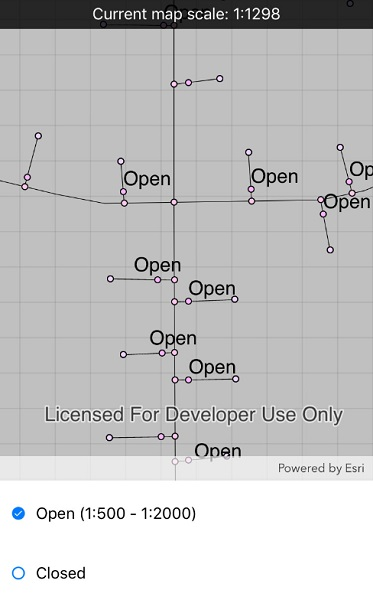
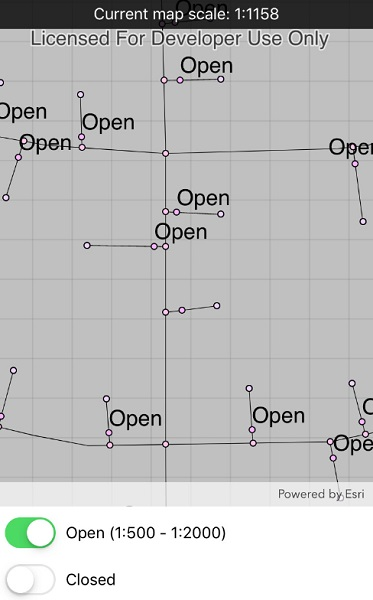
Fixed forms issue with checkbox

diff --git a/src/Forms/Shared/Samples/Layers/ControlAnnotationSublayerVisibility/ControlAnnotationSublayerVisibility.xaml b/src/Forms/Shared/Samples/Layers/ControlAnnotationSublayerVisibility/ControlAnnotationSublayerVisibility.xaml
@@ -31,14 +31,14 @@
                 <ColumnDefinition Width="auto" />
                 <ColumnDefinition Width="*" />
             </Grid.ColumnDefinitions>
-            <CheckBox
-                x:Name="OpenCheckBox"
+            <Switch
+                x:Name="OpenSwitch"
                 Grid.Column="0"
                 Margin="5"
-                CheckedChanged="OpenCheckBoxChanged"
-                IsChecked="True"
                 IsEnabled="False"
-                WidthRequest="20" />
+                IsToggled="True"
+                Toggled="OpenSwitchChanged"
+                WidthRequest="50" />
             <Label
                 x:Name="OpenLabel"
                 Grid.Column="1"
@@ -50,14 +50,14 @@
                 <ColumnDefinition Width="auto" />
                 <ColumnDefinition Width="*" />
             </Grid.ColumnDefinitions>
-            <CheckBox
-                x:Name="ClosedCheckBox"
+            <Switch
+                x:Name="ClosedSwitch"
                 Grid.Column="0"
                 Margin="5"
-                CheckedChanged="ClosedCheckBoxChanged"
-                IsChecked="True"
                 IsEnabled="False"
-                WidthRequest="20" />
+                IsToggled="True"
+                Toggled="ClosedSwitchChanged"
+                WidthRequest="50" />
             <Label
                 x:Name="ClosedLabel"
                 Grid.Column="1"

diff --git a/src/Forms/Shared/Samples/Layers/ControlAnnotationSublayerVisibility/ControlAnnotationSublayerVisibility.xaml.cs b/src/Forms/Shared/Samples/Layers/ControlAnnotationSublayerVisibility/ControlAnnotationSublayerVisibility.xaml.cs
@@ -62,8 +62,8 @@ namespace ArcGISRuntimeXamarin.Samples.ControlAnnotationSublayerVisibility
                 ClosedLabel.Text = _closedSublayer.Name;
 
                 // Enable the check boxes.
-                OpenCheckBox.IsEnabled = true;
-                ClosedCheckBox.IsEnabled = true;
+                OpenSwitch.IsEnabled = true;
+                ClosedSwitch.IsEnabled = true;
 
                 // Add event handler for changing the text to indicate whether the "open" sublayer is visible at the current scale.
                 MyMapView.ViewpointChanged += (s, e) =>
@@ -87,16 +87,16 @@ namespace ArcGISRuntimeXamarin.Samples.ControlAnnotationSublayerVisibility
                 Console.WriteLine(e.Message);
             }
         }
-        private void OpenCheckBoxChanged(object sender, CheckedChangedEventArgs e)
+        private void OpenSwitchChanged(object sender, ToggledEventArgs e)
         {
             // Set the visibility of the sub layer.
-            if (_openSublayer != null) _openSublayer.IsVisible = OpenCheckBox.IsChecked;
+            if (_openSublayer != null) _openSublayer.IsVisible = OpenSwitch.IsToggled;
         }
 
-        private void ClosedCheckBoxChanged(object sender, CheckedChangedEventArgs e)
+        private void ClosedSwitchChanged(object sender, ToggledEventArgs e)
         {
             // Set the visibility of the sub layer.
-            if (_closedSublayer != null) _closedSublayer.IsVisible = ClosedCheckBox.IsChecked;
+            if (_closedSublayer != null) _closedSublayer.IsVisible = ClosedSwitch.IsToggled;
         }
     }
 }
